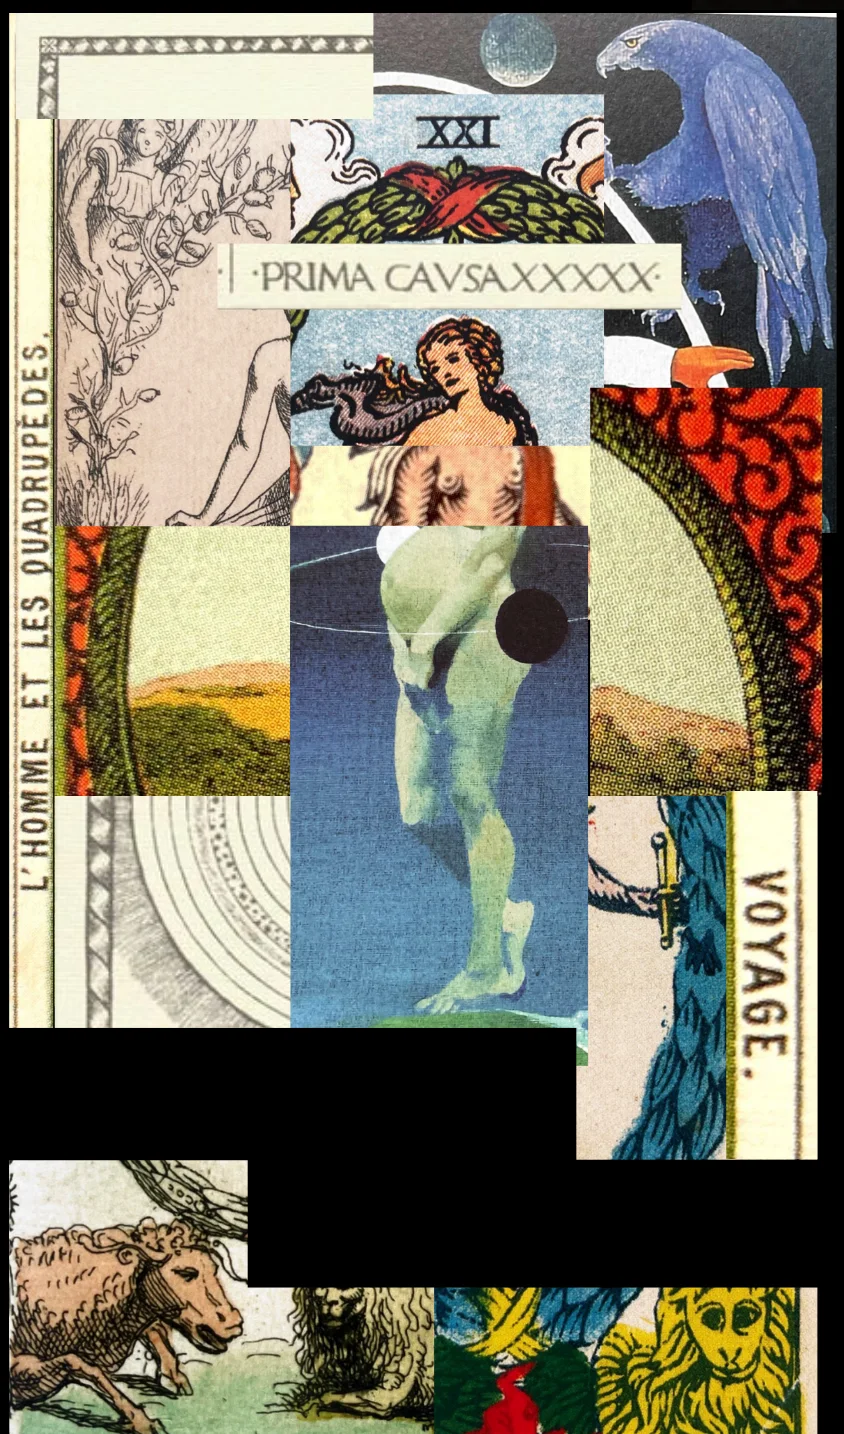
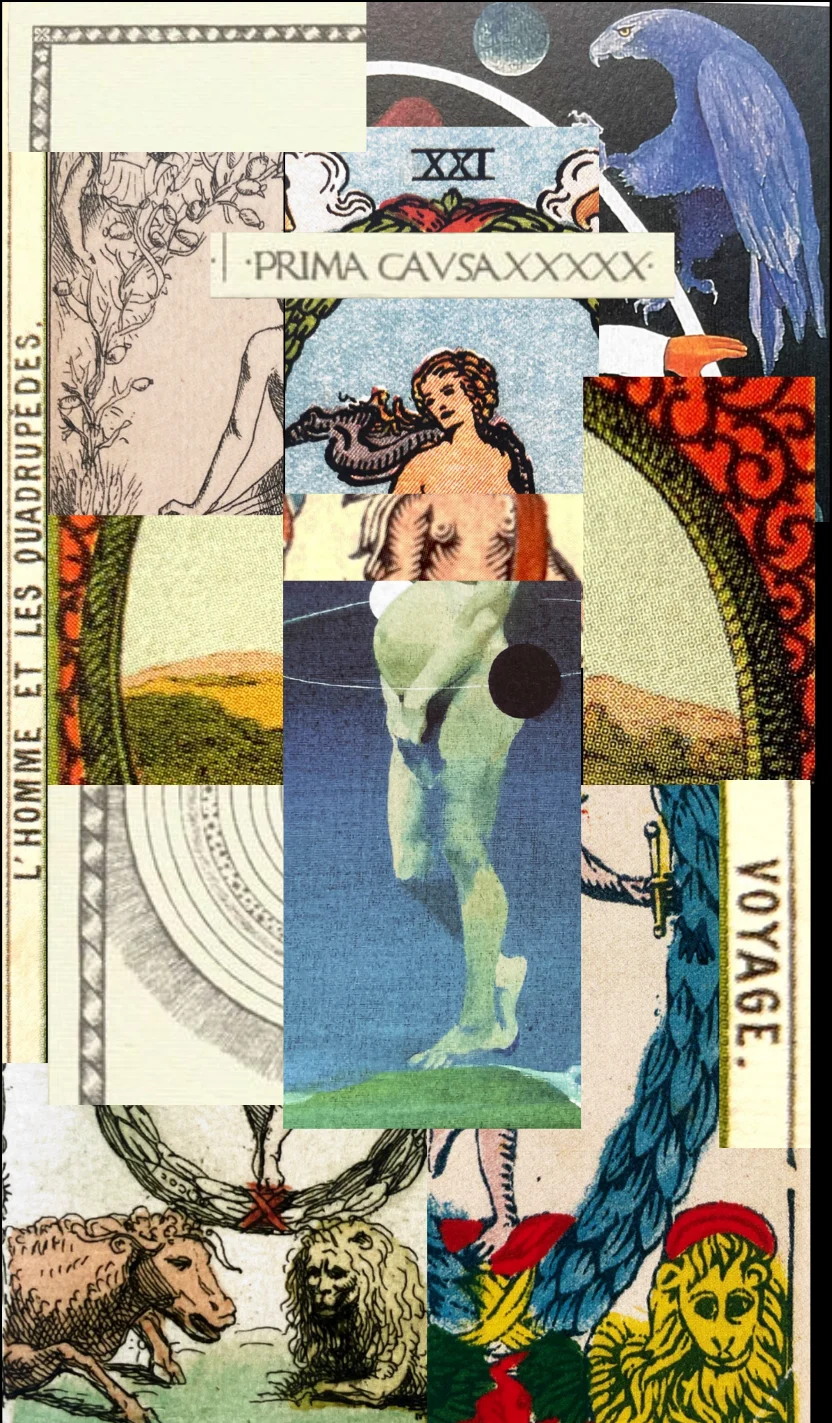
Actualiza textos y el último collage de la portada desde Canva
Portada: nueva presentación («iniciada en el tarot por mi madre…»,
«…el esoterismo y el psicoanálisis») y nueva frase de oficio; sin el
lema, que ya no está en Canva; collage final arreglado. Tarot
individual: «por tiempo y cantidad de cartas», «ser y amar», «lo muerto
y los muertos», La encrucijada 90 min y El tropo 8 cartas. La hipnosis:
nueva preparación. La brújula: «ritmo de los tránsitos astrológicos».

Claude-Session: https://claude.ai/code/session_01H86b986Se2tvQNAebSePnT

diff --git a/src/content/servicios.ts b/src/content/servicios.ts
@@ -19,7 +19,7 @@ export const servicios: Servicio[] = [
     modalidades: ['virtual', 'presencial'],
     precios: { eur: 50, usd: 60, cop: 165000 },
     descripcion: [
-      'Te muestra el nudo del _corazón_ en el ==presente==, te dirige a los _hilos_ del ==pasado== para que lo _desenredes_ y puedas amar _libremente_ en el ==futuro==.',
+      'Te muestra el nudo del _corazón_ en el ==presente==, te dirige a los _hilos_ del ==pasado== para que lo _desenredes_ y puedas ser y amar _libremente_ en el ==futuro==.',
     ],
   },
   {
@@ -31,7 +31,7 @@ export const servicios: Servicio[] = [
     acento: 'verde',
     imagen: '/img/lecturas/la-encrucijada.webp',
     cartas: 7,
-    duracionMin: 75,
+    duracionMin: 90,
     modalidades: ['virtual', 'presencial'],
     precios: { eur: 60, usd: 70, cop: 190000 },
     descripcion: [
@@ -52,7 +52,7 @@ export const servicios: Servicio[] = [
     modalidades: ['virtual', 'presencial'],
     precios: { eur: 70, usd: 80, cop: 220000 },
     descripcion: [
-      'Te ayuda a transitar periodos de **_duelo y dar lugar a tu relación con lo muerto._**',
+      'Te ayuda a transitar periodos de **_duelo y dar lugar a tu relación con lo muerto y los muertos._**',
       'Te muestra el camino de la **pérdida**, a través de la **negociación**, para darle un nuevo lugar a lo que ya no está y abre espacio a lo que está por **nacer**.',
     ],
   },
@@ -64,7 +64,7 @@ export const servicios: Servicio[] = [
     publicado: true,
     acento: 'dorado',
     imagen: '/img/lecturas/el-tropo.webp',
-    // cartas: 9 en la web, 8 en el PDF 2023 → [por confirmar], no se publica hasta confirmarlo
+    cartas: 8, // actualizado en la web de Canva (antes decía 9)
     duracionMin: 105,
     modalidades: ['virtual', 'presencial'],
     precios: { eur: 80, usd: 90, cop: 250000 },
@@ -86,7 +86,7 @@ export const servicios: Servicio[] = [
     modalidades: ['virtual', 'presencial'],
     precios: { eur: 55, usd: 65, cop: 185000 },
     descripcion: ['Cuando _escribes_ el sueño, buscando su medida en tus palabras, te enfrentas a los ==puntos ciegos== que no logras iluminar.'],
-    preparacion: 'Escribe el sueño y envíalo dos días antes. Registra los elementos que recuerdes: espacios, objetos, personajes, situaciones y emociones.',
+    preparacion: 'Para preparar tu sesión escríbelo y envíamelo dos días antes de nuestro encuentro. Registra los elementos que recuerdes: espacios, objetos, personajes, situaciones y emociones.',
     antelacionMinHoras: 72,
   },
   {
@@ -151,7 +151,7 @@ export const servicios: Servicio[] = [
     precios: { eur: 80, usd: 90, cop: 250000 },
     descripcion: [
       'Para _cerrar_ y _prever_, temporada a temporada, mes a mes, lo que te depara ==el año que empieza==.',
-      'Recomendada para que ordenes tu calendario anual acorde al ritmo de los astros.',
+      'Recomendada para que ordenes tu calendario anual acorde al ritmo de los tránsitos astrológicos.',
     ],
   },
 

diff --git a/src/app/page.tsx b/src/app/page.tsx
@@ -1,6 +1,5 @@
 import Image from 'next/image';
 import Link from 'next/link';
-import { formatear } from '@/components/Texto';
 import { sitio } from '@/config/sitio';
 import { imagen } from '@/content/imagenes';
 
@@ -12,22 +11,21 @@ export default function Inicio() {
         <Image {...imagen('/img/inicio/mosaico.webp')} alt={`${sitio.nombre}: emblema del corazón con espadas y llama entre cartas de tarot`} priority sizes="100vw" />
       </section>
 
-      <div className="contenedor centro" style={{ marginTop: 28 }}>
-        <p className="lema">{formatear(sitio.lema)}</p>
-      </div>
-
       <section className="contenedor quien-soy acento-rojo">
         <div>
           <h2 className="gotica acento">¿quién soy?</h2>
           <p>
-            <strong><em>Artista</em></strong> visual y escénica; iniciada en el <strong><em>tarot</em></strong> por mi madre y mi abuela;
-            y <strong><em>astróloga</em></strong> helenística, dedico mi trabajo a tenderte <strong><em>puentes de traducción</em></strong> entre
-            los oráculos, la historia del arte, la filosofía, la literatura y el psicoanálisis.
+            <strong><em>Artista</em></strong> visual y escénica; iniciada en el <strong><em>tarot</em></strong> por mi madre;
+            y <strong><em>astróloga</em></strong> helenística.
+          </p>
+          <p>
+            Dedico mi trabajo a tenderte <strong><em>puentes de traducción</em></strong> entre los oráculos, la historia del arte,
+            la filosofía, la literatura, el esoterismo y el psicoanálisis.
           </p>
         </div>
         <p className="quien-soy-cita">
-          Mi oficio es enseñarte cómo leerte <em>simbólicamente</em>, <em>para que veas</em> y <em>nombres</em> con hondura tu vida y, así,
-          puedas crearla con <em>más lucidez</em>.
+          Mi oficio es enseñarte a leer <em>simbólicamente tu vida, para que la nombres</em> con claridad y hondura y puedas crearla
+          con mayor <em>lucidez</em>.
         </p>
         <span className="flota quien-soy-imagen"><Image {...imagen('/img/inicio/xxi.webp')} alt="" sizes="200px" /></span>
       </section>
@@ -43,7 +41,6 @@ export default function Inicio() {
         </Link>
         <div className="portada-lema flota">
           <Image {...imagen('/img/inicio/lema.webp')} alt="" sizes="(max-width: 760px) 90vw, 420px" />
-          <p>{formatear(sitio.lema)}</p>
         </div>
       </section>
     </>

diff --git a/src/components/BloqueLectura.tsx b/src/components/BloqueLectura.tsx
@@ -10,10 +10,12 @@ import { tieneCollage } from '@/content/collages';
 import { CollageAnimado } from './CollageAnimado';
 import { formatear, Texto } from './Texto';
 
+/** «Virtual o presencial» en sueños y astrología, «Virtual y presencial» en tarot, como en la web de Canva. */
 export function modalidadTexto(s: Servicio) {
+  const enlace = ['suenos', 'astrologia'].includes(s.categoria) ? 'o' : 'y';
   const v = s.modalidades.includes('virtual');
   const p = s.modalidades.includes('presencial');
-  return v && p ? 'Virtual y presencial (Madrid)' : v ? 'Virtual' : 'Presencial (Madrid)';
+  return v && p ? `Virtual ${enlace} presencial (Madrid)` : v ? 'Virtual' : 'Presencial (Madrid)';
 }
 
 export function detalleLectura(s: Servicio) {

diff --git a/src/app/globals.css b/src/app/globals.css
@@ -220,7 +220,7 @@ a.tarjeta:hover { border-color: var(--acento); transform: translateY(-2px); }
 .mosaico img { width: 100%; height: auto; }
 .quien-soy { display: grid; grid-template-columns: 1fr 1.25fr 180px; gap: 40px; align-items: center; padding: 56px 0 24px; }
 .quien-soy h2 { font-size: clamp(2.6rem, 5vw, 3.6rem); }
-.quien-soy p { font-size: 1.45rem; line-height: 1.25; margin: 0; }
+.quien-soy p { font-size: 1.45rem; line-height: 1.25; margin: 0 0 .6em; }
 .quien-soy .quien-soy-cita { font-size: clamp(1.9rem, 3.4vw, 2.7rem); line-height: 1.12; text-align: right; }
 .quien-soy-imagen { width: 100%; }
 .portada-columnas { display: grid; grid-template-columns: 1fr 1fr 1.6fr; gap: 32px; align-items: start; padding: 48px 0 0; }

diff --git a/src/config/sitio.ts b/src/config/sitio.ts
@@ -3,7 +3,7 @@ export const sitio = {
   autora: 'Camila',
   // Lema y presentación: palabras de Camila (README del repositorio encartada).
   lema: '_Pensemos_ la imagen, hagámosla _cuerpo_.',
-  descripcion: 'Mi oficio es enseñarte cómo leerte simbólicamente, para que veas y nombres con hondura tu vida y, así, puedas crearla con más lucidez.',
+  descripcion: 'Mi oficio es enseñarte a leer simbólicamente tu vida, para que la nombres con claridad y hondura y puedas crearla con mayor lucidez.',
   whatsapp: '34667772711',
   instagram: 'https://www.instagram.com/en_cartada/',
   email: 'encartada.tarot@gmail.com',

diff --git a/src/content/imagenes.ts b/src/content/imagenes.ts
@@ -7,7 +7,7 @@ export const tamanos: Record<string, [number, number]> = {
   '/img/cursos/la-brevisima-historia-del-tarot.webp': [940, 1192],
   '/img/cursos/de-que-hablamos-cuando-hablamos-de-mistica.webp': [920, 1122],
   '/img/inicio/aprende.webp': [400, 1180],
-  '/img/inicio/lema.webp': [844, 1434],
+  '/img/inicio/lema.webp': [832, 1423],
   '/img/inicio/mosaico.webp': [1800, 1009],
   '/img/inicio/oraculo.webp': [396, 1064],
   '/img/inicio/xxi.webp': [432, 1536],

diff --git a/src/content/categorias.ts b/src/content/categorias.ts
@@ -19,7 +19,7 @@ export const categorias: Categoria[] = [
     oraculo: 'terrestre',
     rotulo: 'Tiradas individuales',
     intro: [
-      '_Las lecturas funcionan por tiempo. Entre más tiempo, podemos abarcar más temas y más profundidad._',
+      '_Las lecturas funcionan por tiempo y cantidad de cartas. Entre más tiempo, podemos abarcar más temas e ir más profundo._',
       '_Tú decides cuánto tiempo invertir._',
     ],
   },
